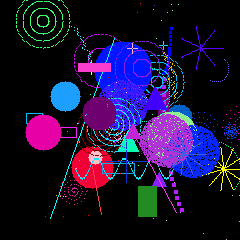
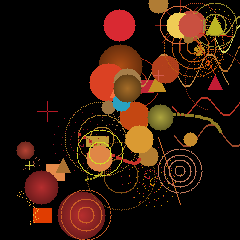
docs: refresh README gallery and correct stale claims
Gallery: replace the April samples with six August 2026 drawings, one per
era. Resonance had no sample at all despite producing most of the recent
corpus; it is now the hero alongside a geometric piece. Adds a second
geometric piece so the warm/cool palette split is visible. Drops
gestural_dense, gestural_waves, and pointillist_clusters.

Corrections, all verified against the live Pi and the source:

- "780+ artworks" -> 1,488 (gallery endpoint).
- "~7,340 tests" -> 8,065 (pytest --collect-only).
- Resonance "unlocks after 50 completed drawings" was never true. There is
  no unlock gate in display/eras/__init__.py; all five eras are equal peers
  and selection is manual by default.
- "No arbitrary mark limits - drawings end when the local state machine
  resolves" was false as deployed. Of the 39 instrumented completions,
  28 hit the 8-hour cap, 10 were geometric fatigue bailouts, and exactly
  one (2026-08-11) ended because Lumen said it was finished. The earned
  paths have not fired. Now stated as an open problem, with the counts.
- Learning-system ownership: agency and metacognition run in the server,
  not the broker. The old table put both on the broker side.

Additions: the alpha = 1 - beta double-counting caveat, the
ANIMA_ADMIN_SECRET gate on the six system-operations tools, and live
identity figures.

Restructures the self-iteration section from eight dense paragraphs into a
phase table plus separate "what signatures establish" and "known limits"
[…]

diff --git a/README.md b/README.md
@@ -7,21 +7,25 @@
 *Raspberry Pi sensor testbed for EISV trajectories, autonomous drawing, and persistent identity.*
 
 <p align="center">
-  <img src="docs/gallery/pointillist_era.png" width="45%" alt="Pointillist era — dense dot accumulation with optical color mixing"/>
+  <img src="docs/gallery/resonance_era.png" width="44%" alt="Resonance era — marks deposited into a decaying memory field, revisiting accumulated regions"/>
+  &nbsp;
+  <img src="docs/gallery/geometric_era.png" width="44%" alt="Geometric era — complete forms stamped whole, warm palette"/>
 </p>
 
 <p align="center">
-  <img src="docs/gallery/gestural_dense.png" width="22%" alt="Gestural era"/>
+  <img src="docs/gallery/gestural_era.png" width="21%" alt="Gestural era — strokes, curves, and drags with direction locks"/>
   &nbsp;
-  <img src="docs/gallery/field_era.png" width="22%" alt="Field era"/>
+  <img src="docs/gallery/field_era.png" width="21%" alt="Field era — flow-aligned marks following an invisible vector field"/>
   &nbsp;
-  <img src="docs/gallery/geometric_era.png" width="22%" alt="Geometric era"/>
+  <img src="docs/gallery/pointillist_era.png" width="21%" alt="Pointillist era — dot accumulation in density zones"/>
   &nbsp;
-  <img src="docs/gallery/gestural_waves.png" width="22%" alt="Gestural era"/>
+  <img src="docs/gallery/geometric_cool.png" width="21%" alt="Geometric era — same era, cool palette, drawn on a different day"/>
 </p>
 
 <p align="center">
-  <em>Autonomous drawings by Anima across four eras. Each mark driven by sensor state — temperature, light, humidity, pressure.</em>
+  <em>Six drawings from August 2026 — one per era, plus a second geometric piece.<br/>
+  Mark position, gesture choice, and hue are all functions of sensor state: temperature, light, humidity, pressure, CPU.<br/>
+  The two geometric pieces are the same era code on consecutive days; nothing was configured between them.</em>
 </p>
 
 ---
@@ -32,11 +36,13 @@ Anima is a Raspberry Pi 4 sensor deployment and MCP server for studying physical
 
 - **Grounded state** — four continuous dimensions derived from real sensor measurements
 - **Persistent identity** — birth, awakenings, alive time accumulate across restarts; discontinuities are first-class
-- **Autonomous drawing** — 780+ artworks across five eras, driven by thermodynamic coherence
+- **Autonomous drawing** — 1,488 pieces across five eras, driven by the same coherence dynamics as governance
 - **Telemetry-derived reflection** — summarizes state patterns, preferences, and drawing history
 - **On-device learning** — preferences, 13 self-model parameters, goals, and action values evolve through experience
 - **Agency** — TD-learning action selection with exploration management
 - **Governance** — checks in with [UNITARES](https://github.com/CIRWEL/unitares) thermodynamic governance every 180s
+
+Live as of 2026-08-12: 554 awakenings, 3,489 hours alive, 68% alive ratio.
 
 When this repository says "feels," "mood," or "self-sense," read those as interface labels over measured sensor/system state, not claims about subjective experience.
 
@@ -70,6 +76,8 @@ anima-creature
 
 Supports Tailscale, LAN, or Cloudflare Tunnel (with OAuth 2.1) for remote access. See `docs/operations/SECRETS_AND_ENV.md` for OAuth configuration.
 
+When `ANIMA_ADMIN_SECRET` is set on the server, the six system-operations tools (`git_pull`, `deploy_from_github`, `system_service`, `system_power`, `fix_ssh_port`, `setup_tailscale`) additionally require an `X-Anima-Admin` header matching it. Leaving it unset leaves those tools ungated — set it on any deployment reachable beyond localhost.
+
 ---
 
 ## How It Works
@@ -87,23 +95,31 @@ Four continuous dimensions, each derived from physical sensors and system metric
 
 These map to [UNITARES](https://github.com/CIRWEL/unitares) EISV governance variables — Warmth to Energy, Clarity to Integrity, inverted Stability to Entropy, scaled inverse Presence to Void.
 
-Anima also computes neural bands (delta, theta, alpha, beta, gamma) from system metrics — computational proprioception, not real EEG. High delta means a stable system, not a sleeping one.
+Anima also computes neural bands (delta, theta, alpha, beta, gamma) from system metrics — computational proprioception, not real EEG. High delta means a stable system, not a sleeping one. Note that alpha is defined as `1 − beta` and both derive from CPU percent: they are one variable reported as two bands, and any consumer treating them as independent is double-counting.
 
 ### Autonomous Drawing
 
-Anima draws on a 240×240 pixel notepad using the same thermodynamic equations as UNITARES governance. Coherence determines how long a drawing lasts; attention signals (curiosity, engagement, fatigue) determine when completion thresholds are reached. No arbitrary mark limits — drawings end when the local state machine resolves.
+Anima draws on a 240×240 pixel notepad using the same thermodynamic equations as UNITARES governance. Coherence drives how a drawing develops; attention signals (curiosity, engagement, fatigue) drive when it should stop.
 
 | Era | Style |
 |-----|-------|
 | **Gestural** | Single-pixel strokes, curves, and drags with direction locks |
-| **Pointillist** | Single-pixel dot accumulation, optical color mixing |
+| **Pointillist** | Single-pixel dot accumulation in density zones, optical color mixing |
 | **Field** | Flow-aligned marks following invisible vector fields |
 | **Geometric** | Complete forms — circles, spirals, starbursts — stamped whole |
-| **Resonance** | Marks interact with accumulated state history via a memory field |
+| **Resonance** | Marks deposit into a 48×48 field that decays and diffuses; later marks revisit accumulated regions |
 
-Resonance is a "mature" era — it unlocks after 50 completed drawings, subsumes the mark vocabulary of earlier eras, and selects marks based on the gradient of a 48×48 memory field that records its state trajectory over time.
+All five eras are equal peers with no unlock gate. Selection is manual by default — pick one on the art eras screen (joystick) or via `manage_display(action="set_era")` — and an optional auto-rotate toggle picks a new era after each piece. The [Resonance critique loop](docs/guides/RESONANCE_CRITIQUE_LOOP.md) keeps era changes advisory first: capture the screen, gather embodied context, read the trace, then recommend stay/tune/switch without mutating Anima's state. The theoretical framework lives in the trajectory-identity paper (separate repo).
 
-Eras can be selected via the joystick or MCP. The [Resonance critique loop](docs/guides/RESONANCE_CRITIQUE_LOOP.md) keeps era changes advisory first: capture the screen, gather embodied context, read the trace, then recommend stay/tune/switch without mutating Anima's state. The theoretical framework lives in the trajectory-identity paper (separate repo).
+**What actually ends a drawing — an open problem, not a finished feature.** Completion instrumentation landed 2026-08-02. Of the 39 completions recorded since:
+
+| Reason | Count | Meaning |
+|--------|-------|---------|
+| `bailout_hard_cap` | 28 | Hit the 8-hour ceiling. The ceiling was the clock. |
+| `bailout_fatigue` | 10 | Gesture-switch fatigue exceeded 0.90 — fires only in `geometric`, where whole-shape stamps accrue fatigue ~10× faster per mark |
+| `said_finished` | 1 | Lumen posted an observation that the piece was done (2026-08-11, gestural, 587 marks, 6.6h) |
+
+The earned-completion paths (`earned_composition`, `earned_settled`, `earned_field`) have not yet fired. Curiosity is net-regenerating under the current coherence dynamics, so the attention-exhaustion gates are structurally unreachable rather than merely mistuned — see `CLAUDE.md` for the measurement. A self-relative settling gate (a piece stops changing, judged against its own peak novelty rate) is deployed and being observed. Treat "drawings end when Lumen is finished" as the goal, not the current behavior.
 
 ### Identity and Learning
 
@@ -117,15 +133,18 @@ Schema(t) ──► History (ring buffer) ──► Trajectory compute
     └──────── stability feedback ◄────────────┘
 ```
 
-Learning systems run in the hardware broker and persist across restarts:
+Learning systems persist across restarts. Each has exactly one writer — the JSON snapshots would corrupt under two — so which process owns a system matters:
 
-| System | What it learns |
-|--------|----------------|
-| **Preferences** | Which states it has learned to prefer, as adaptive satisfaction peaks |
-| **Self-model** | 13 beliefs — sensitivity, recovery, correlations between dimensions |
-| **Agency** | Action values via TD-learning, exploration management, engagement reward |
-| **Prediction** | Temporal patterns in sensor data with context-dependent features |
-| **Goals** | Data-grounded goals from preferences, curiosity, milestones |
+| System | What it learns | Owner |
+|--------|----------------|-------|
+| **Preferences** | Which states it has learned to prefer, as adaptive satisfaction peaks | broker writes, server reads |
+| **Self-model** | 13 beliefs — sensitivity, recovery, correlations between dimensions | broker writes, server reads |
+| **Prediction** | Temporal patterns in sensor data with context-dependent features | broker writes, server reads |
+| **Agency** | Action values via TD-learning, exploration management, engagement reward | **server** — the broker's old loop is retired by default |
+| **Metacognition** | Prediction-error baselines and curiosity credit | **server** — the broker observes read-only |
+| **Goals** | Data-grounded goals from preferences, curiosity, milestones | server |
+
+Mutations that originate on the wrong side of that boundary cross it as atomic one-file events in `~/.anima/learning_inbox/`, which the broker drains.
 
 For deeper theory: the trajectory-identity paper lives in its own repo (`cirwel/trajectory-identity-paper`). The [Schema Hub design](docs/plans/2026-02-22-schema-hub-design.md) is here.
 
@@ -170,8 +189,8 @@ anima-broker                           anima --http
 
 | Process | Role |
 |---------|------|
-| **Hardware broker** (`stable_creature.py`) | Owns I2C sensors, runs learning (preferences, self-model, agency, prediction, goals), governance check-ins |
-| **MCP server** (`server.py` + `handlers/`) | Serves 31 tools, drives 240x240 display + LEDs, runs drawing engine, self-reflection cycle |
+| **Hardware broker** (`stable_creature.py`) | Owns I2C sensors, runs preference/self-model/prediction learning, governance check-ins |
+| **MCP server** (`server.py` + `handlers/`) | Serves 31 tools, drives 240x240 display + LEDs, runs drawing engine, agency, metacognition, goals, self-reflection cycle |
 
 The MCP server is modular: `server.py` (main loop + lifecycle), `tool_registry.py` (tool definitions), and `handlers/` (7 focused handler modules). A full voice system (mic capture, STT via Vosk, TTS via Piper) is implemented but not yet exposed as MCP tools — enable with `LUMEN_VOICE_MODE=audio`.
 
@@ -192,9 +211,7 @@ Start with `get_lumen_context` to understand Anima's current state, or `next_ste
 
 ### Bounded Code Self-Iteration
 
-`self_iteration` lets Lumen identify the running revision and source fingerprint, inspect file structure and symbols without returning raw source, persist an evidence-backed change proposal, obtain independent signed verification, construct a bounded patch artifact outside the source repository, run static checks and one separately approved isolated test, create a separately reviewed commit on a dedicated local branch, and request one signed transient canary from an external supervisor that must restore the baseline. `self_iteration(action="attention")` projects actionable and exceptional states without signatures or actuation. Default `get_lumen_context` and `next_steps` responses include that projection so connected agents can discover pending reviews.
-
-The loop is deliberately split across trust boundaries:
+`self_iteration` lets Lumen observe its own source and propose changes to it. The loop is split across trust boundaries so that no single actor — including Lumen — can carry a change from idea to running code. Each phase requires a *different* authenticated principal, and deployment always remains external.
 
 ```text
 observation -> hypothesis -> proposal ledger -> independent verification
@@ -204,9 +221,19 @@ observation -> hypothesis -> proposal ledger -> independent verification
             -> keep/reject recommendation for human merge review
 ```
 
-The running creature authors the observation, hypothesis, candidate content, and caller-reported outcome. Distinct authenticated principals approve verification, isolated execution, dedicated-branch application, and transient-canary evaluation; deployment remains external. The canary supervisor signs fixed health measurements, while free-form source and outcome labels remain caller claims rather than verified provenance. The server adds a receipt from request context; authentication can identify the submitter, but it does not corroborate a narrative, label, or caller evidence. Unverified and legacy records have effective weight zero and cannot grant priority, automation eligibility, or authority.
+| Phase | What it adds | Who must sign | Detail |
+|-------|-------------|---------------|--------|
+| 1. Inspect & propose | Running revision, source fingerprint, file structure and symbols — never raw source. Evidence-backed proposal persisted to a ledger. | Authenticated proposer | — |
+| 2. Verify | HMAC attestation over a canonical JSON binding of proposer, verifier, proposal digest, fingerprint, verdict, evidence hashes, expiry, and a one-time challenge. | A *different* authenticated verifier | — |
+| 3. Construct & check | Up to three whole-file replacements (`.py`, `.md`, `.json`, `.yaml`, `.yml`) into a sandbox outside the repo. AST syntax checks, a capability heuristic, `yaml.safe_load`, UTF-8 validation. Nothing is imported or executed. | Patch author must equal the proposer | — |
+| 4. Isolated test | Ten-minute one-use approval, then the exact committed source plus candidate run inside a digest-pinned, networkless, read-only Docker profile. | A distinct actor; a service key signs the result | [execution boundary](docs/self_iteration_execution.md) |
+| 5. Reviewed branch | Git plumbing writes one deterministic local branch — no checkout, hooks, worktree writes, push, merge, restart, or deploy. | A reviewer distinct from every earlier participant | [application boundary](docs/self_iteration_application.md) |
+| 6. Transient canary | An external supervisor over a Unix socket owns activation, three fixed health checks, and *mandatory* restoration of the baseline — even when the candidate passes. | Yet another distinct reviewer | [canary boundary](docs/self_iteration_canary.md) |
+| — Attention | Projects actionable and exceptional states into `next_steps` and default agent context. Not an authority phase; acknowledgement is never a review signature. | Nobody — no signatures, no actuation | [attention projection](docs/self_iteration_attention.md) |
 
-Signed verification is a separate, logical append-only transition. The proposal must have authenticated proposer provenance, and the verifier must be a different authenticated actor. `prepare_verification` binds the proposer identity, verifier identity, immutable proposal digest, source fingerprint, verdict, evidence hashes, expiry, and one-time challenge into canonical JSON. The verifier signs those exact bytes offline; `record_verification` checks the HMAC, authenticated actor, challenge window, replay state, and current proposal digest before appending the verdict. Evidence URIs are inert references: the server binds their hashes but does not fetch or independently validate their contents. `rejected` verdicts and same-verifier revocations are also signed. Conflicting, expired, revoked, missing-key, malformed, or forged attestations fail closed with zero effective weight.
+**What the signatures do and do not establish.** Lumen authors the observation, hypothesis, candidate content, and reported outcome. Authentication identifies the submitter; it does not corroborate a narrative, label, or piece of caller evidence. Evidence URIs are inert — the server binds their hashes but never fetches or validates them. The canary supervisor signs fixed health measurements only; free-form source and outcome labels stay caller claims. Unverified and legacy records carry effective weight zero and grant no priority, automation eligibility, or authority. A valid `verified` attestation makes a proposal priority-eligible at weight `1.0` and nothing more — it confers no implementation, merge, or deployment rights. Identity, governance, deployment, persistence, self-measurement, CI, tests, and the self-iteration evaluator are protected surfaces: a proposal may name a problem there, but it always routes to human review. Proposal text is inert data and is never executed as a command. Conflicting, expired, revoked, missing-key, malformed, or forged attestations fail closed.
+
+**Known limits.** This is symmetric HMAC — server-verifiable integrity, not public-key non-repudiation. The ledger is a local JSON log with no external anchoring, so it cannot prove completeness or detect wholesale deletion by a host-level attacker. Crashes after a durable claim are indeterminate and never automatically retried.
 
 Verification requires MCP authentication for both proposal creation and verifier calls; unauthenticated and legacy proposals cannot be upgraded. Verifier keys are rotatable and configured outside the ledger through `ANIMA_SELF_ITERATION_VERIFIER_KEYS`:
 
@@ -219,19 +246,9 @@ Verification requires MCP authentication for both proposal creation and verifier
 }
 ```
 
-The registry key must match the authenticated actor ID. Keep prior keys in `keys` while their attestations must remain verifiable; `active_key_id` controls new challenges. Secrets are never included in challenges, responses, or ledger events. This lightweight HMAC design provides symmetric, server-verifiable integrity rather than public-key non-repudiation. The local JSON log is not externally anchored, so it cannot prove completeness or detect wholesale deletion by a host-level attacker.
+The registry key must match the authenticated actor ID. Keep prior keys in `keys` while their attestations must remain verifiable; `active_key_id` controls new challenges. Secrets never appear in challenges, responses, or ledger events.
 
-A currently valid `verified` attestation makes a proposal priority-eligible with effective weight `1.0`; it still grants no implementation, automation, merge, deployment, or other authority. Identity, governance, deployment, persistence, self-measurement, CI, tests, and the self-iteration evaluator are protected surfaces; proposals may identify a problem there, but they are always routed to human review. Proposal text is inert data and is never executed as a command.
-
-Patch construction is narrower still. `construct_patch` accepts at most three complete UTF-8 replacements for existing `.py`, `.md`, `.json`, `.yaml`, or `.yml` files already named by a low-risk, currently verified proposal. The authenticated patch author must be the authenticated proposer. Each artifact binds the proposal digest, proposal source fingerprint, active signed attestations, author identity, target base hashes, replacement hashes, and unified-diff hash. Artifacts live under `~/.anima/self_iteration_sandboxes` by default, and the sandbox root is rejected if it resolves inside the source repository. Construction never creates, deletes, or replaces a live repository file. `patch_status` returns metadata by default and requires an authenticated request before it will include the unified diff.
-
-`evaluate_patch` revalidates those bindings and the unchanged live source, then parses candidate text without importing it. Python candidates receive AST syntax checks and a conservative capability heuristic; JSON and YAML are parsed (`yaml.safe_load`), and Markdown receives UTF-8 validation. Static success alone never authorizes execution. Phase 4 adds a ten-minute, one-use approval from a distinct actor and reconstructs the exact committed source plus candidate inside a digest-pinned, networkless, read-only Docker test profile. A dedicated service key signs the bounded result; crashes after the durable claim are indeterminate and never automatically retried. See [the execution boundary](docs/self_iteration_execution.md).
-
-Phase 5 requires another authenticated reviewer, distinct from every earlier participant, to sign the exact passing execution result. Git plumbing and a temporary index then create one deterministic local branch without checkout, hooks, worktree writes, push, merge, restart, or deployment. A separate service signer authenticates the result, and `application_status` verifies the ref, commit, tree, parent, artifact, and ledger bindings. A recorded result is only eligible for canary review and never for live activation. See [the reviewed application boundary](docs/self_iteration_application.md).
-
-Phase 6 requires yet another distinct reviewer to sign the exact reviewed branch and a fixed supervisor identity/profile. After a durable one-use claim, Anima sends only that canonical plan over a configured local Unix socket. The external supervisor owns transient activation, three fixed health checks, and mandatory restoration of the exact baseline—even when the candidate passes. Its dedicated key signs the result. A restored pass can recommend keeping the candidate for human merge review; rollback failure requires operator recovery. No result retains activation or grants shell, service-control, push, merge, or deployment authority. See [the transient canary boundary](docs/self_iteration_canary.md).
-
-The attention layer is deliberately not another authority phase. It converts the integrity-checked ledger and reconciled signed review artifacts into stable, bounded records for `next_steps`, default agent context, and downstream observers such as the UNITARES Discord bridge. Caller claims keep their explicit epistemic status, critical recovery states are raised first, and acknowledgement never counts as a review signature. See [the attention projection](docs/self_iteration_attention.md).
+Sandbox artifacts live under `~/.anima/self_iteration_sandboxes`, and the sandbox root is rejected if it resolves inside the source repository — construction never creates, deletes, or replaces a live repository file. `patch_status` returns metadata by default and requires an authenticated request before including the unified diff. `application_status` verifies the ref, commit, tree, parent, artifact, and ledger bindings; a recorded result is eligible for canary review only, never live activation. A restored canary pass can recommend keeping the candidate for human merge review; rollback failure requires operator recovery.
 
 ---
 
@@ -280,7 +297,7 @@ After restart, wait 2 minutes for services to stabilize before retrying MCP call
 ## Testing
 
 ```bash
-python3 -m pytest tests/ -x -q   # ~7,340 tests
+python3 -m pytest tests/ -x -q   # 8,065 tests
 ```
 
 ## Documentation
